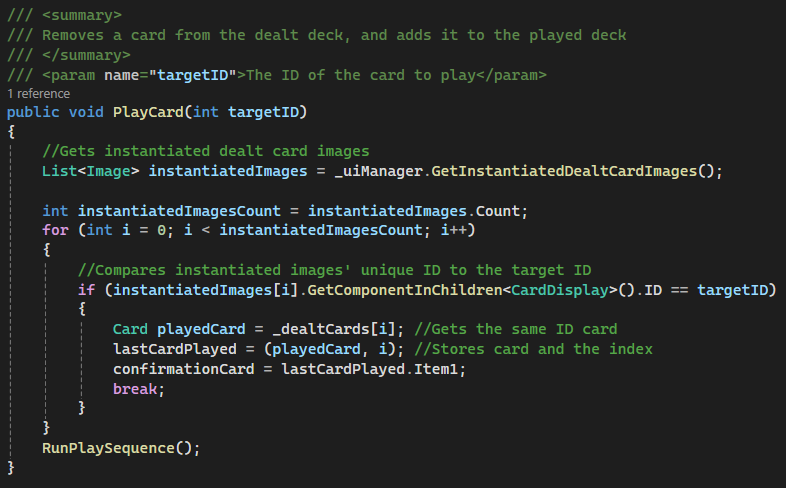
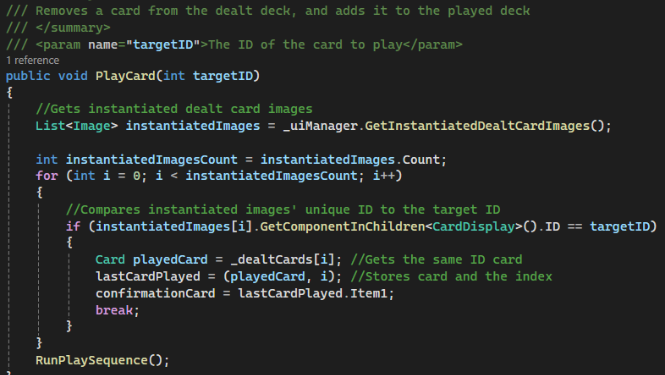
p

diff --git a/projects/Orbit/index.html b/projects/Orbit/index.html
@@ -65,7 +65,7 @@
 					</p>
 				</div>
 				<div class="image no-clip">
-					<img src="./Pictures/ORBIT1-1.png" alt="Failed to load image"/>
+					<img src="./Pictures/ORBIT1.png" alt="Failed to load image"/>
 				</div>
 			</section>
 
@@ -98,7 +98,7 @@
 						in several different scenarios.</p>
 				</div>
 				<div class="image no-clip">
-					<img src="./Pictures/ORBIT3-1.png" alt="Failed to load image" />
+					<img src="./Pictures/ORBIT3.png" alt="Failed to load image" />
 				</div>
 			</section>
 
